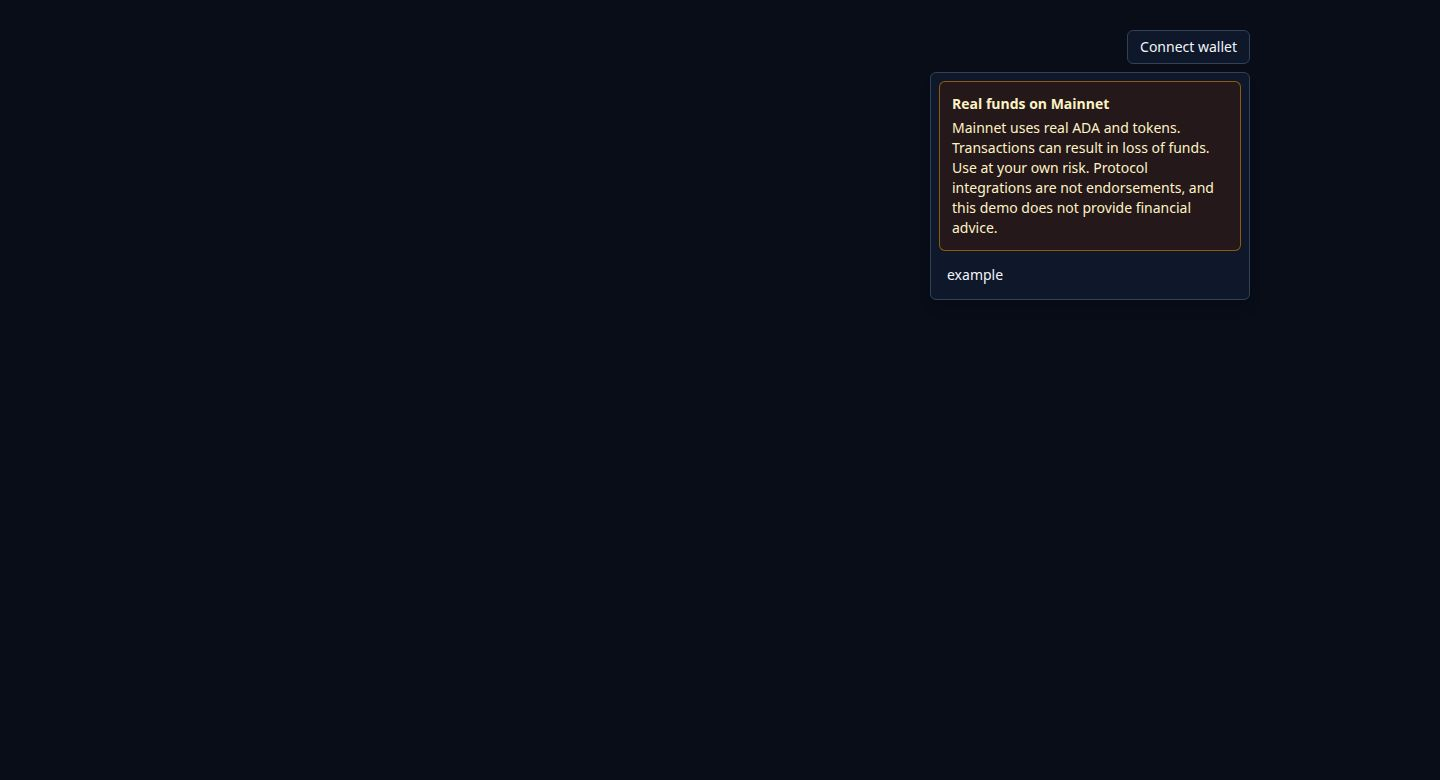
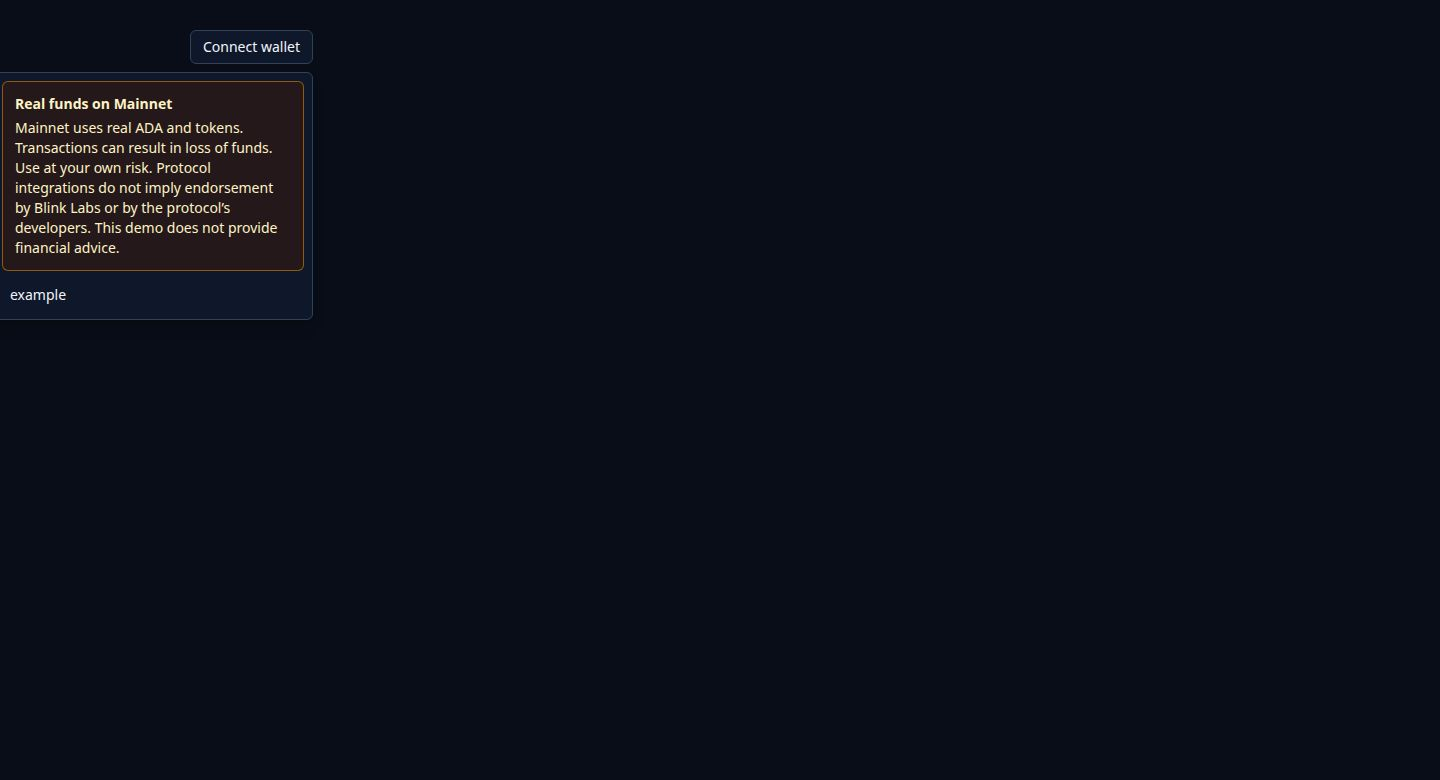
fix: keep Mainnet notices visible on narrow layouts

Changed region(s): [[0.625, 0.0308, 0.875, 0.3692], [0.0, 0.0308, 0.2188, 0.4]]

diff --git a/src/components/layout/WalletConnectSummary.tsx b/src/components/layout/WalletConnectSummary.tsx
@@ -83,11 +83,11 @@ export function WalletConnectSummary() {
         {status === "connecting" ? "Connecting…" : "Connect wallet"}
       </button>
       {open && status !== "connecting" && (
-        <div className={`absolute right-0 z-10 mt-2 ${mainnet ? "w-80 max-w-[calc(100vw-2rem)]" : "w-56"} rounded-md border border-slate-700 bg-slate-900 p-2 text-sm shadow-lg`}>
+        <div className={`absolute right-0 z-10 mt-2 ${mainnet ? "w-80 max-w-[calc(100vw-2rem)] max-md:fixed max-md:inset-x-4 max-md:top-20 max-md:z-50 max-md:w-auto max-md:max-h-[calc(100dvh-6rem)] max-md:overflow-y-auto" : "w-56"} rounded-md border border-slate-700 bg-slate-900 p-2 text-sm shadow-lg`}>
           {mainnet && (
             <div id={noticeId} role="note" className="mb-2 rounded-md border border-amber-500/50 bg-amber-950/40 p-3 text-amber-100">
               <strong className="block">Real funds on Mainnet</strong>
-              <p className="mt-1">Mainnet uses real ADA and tokens. Transactions can result in loss of funds. Use at your own risk. Protocol integrations are not endorsements, and this demo does not provide financial advice.</p>
+              <p className="mt-1">Mainnet uses real ADA and tokens. Transactions can result in loss of funds. Use at your own risk. Protocol integrations do not imply endorsement by Blink Labs or by the protocol’s developers. This demo does not provide financial advice.</p>
             </div>
           )}
           {availableWallets.length === 0 && (

diff --git a/src/components/layout/WalletConnectSummary.test.tsx b/src/components/layout/WalletConnectSummary.test.tsx
@@ -25,7 +25,7 @@ it.each(["mainnet", "preview", "preprod", "musashi", "dijkstra", "prime-testnet"
       if (network === "mainnet") {
         expect(notice?.textContent).toContain("Mainnet uses real ADA and tokens");
         expect(notice?.textContent).toContain("loss of funds");
-        expect(notice?.textContent).toContain("not endorsements");
+        expect(notice?.textContent).toContain("do not imply endorsement by Blink Labs or by the protocol’s developers");
         expect(notice?.textContent).toContain("does not provide financial advice");
         expect(wallet.getAttribute("aria-describedby")).toBe(notice?.id);
       } else {
